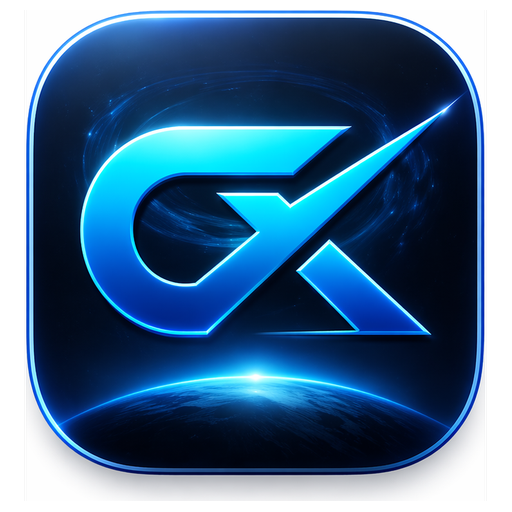
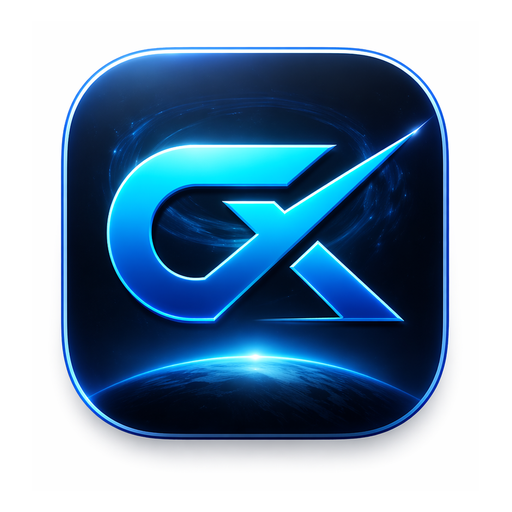
auto-commit for 7efecc50-e5d4-4c22-856b-f71e078ddbee

diff --git a/frontend/src/components/NotificationsBell.js b/frontend/src/components/NotificationsBell.js
@@ -1,4 +1,5 @@
 import React, { useCallback, useEffect, useRef, useState } from "react";
+import { createPortal } from "react-dom";
 import { Bell, CheckCheck, Inbox } from "lucide-react";
 import { Link, useNavigate } from "react-router-dom";
 import { useApi } from "@/hooks/useApi";
@@ -18,7 +19,9 @@ export default function NotificationsBell() {
   const [unread, setUnread] = useState(0);
   const [items, setItems] = useState([]);
   const navigate = useNavigate();
+  const btnRef = useRef(null);
   const panelRef = useRef(null);
+  const [anchor, setAnchor] = useState({ top: 64, left: null, right: 16, width: 360 });
 
   const refreshUnread = useCallback(async () => {
     const r = await get("/notifications/unread-count");
@@ -36,15 +39,62 @@ export default function NotificationsBell() {
     return () => clearInterval(t);
   }, [refreshUnread]);
 
+  // Recompute anchor whenever the panel opens or the viewport changes.
+  const computeAnchor = useCallback(() => {
+    if (!btnRef.current) return;
+    const vw = window.innerWidth;
+    const rect = btnRef.current.getBoundingClientRect();
+    const GUTTER = 8;
+    const isMobile = vw < 640;
+    if (isMobile) {
+      setAnchor({
+        top: Math.round(rect.bottom + 8),
+        left: GUTTER,
+        right: GUTTER,
+        width: null,
+      });
+      return;
+    }
+    const PANEL_W = 380;
+    // Prefer opening to the RIGHT of the bell (so it extends into the main
+    // content area, not off the screen to the left). If the bell is far right
+    // (mobile header-like), clamp to the viewport right edge.
+    let left = Math.round(rect.left);
+    if (left + PANEL_W + GUTTER > vw) {
+      left = Math.round(vw - PANEL_W - GUTTER);
+    }
+    if (left < GUTTER) left = GUTTER;
+    setAnchor({
+      top: Math.round(rect.bottom + 8),
+      left,
+      right: null,
+      width: PANEL_W,
+    });
+  }, []);
+
   useEffect(() => {
     if (!open) return;
+    computeAnchor();
     loadList();
+    const onResize = () => computeAnchor();
     const onDoc = (e) => {
-      if (panelRef.current && !panelRef.current.contains(e.target)) setOpen(false);
+      const t = e.target;
+      if (btnRef.current && btnRef.current.contains(t)) return;
+      if (panelRef.current && panelRef.current.contains(t)) return;
+      setOpen(false);
     };
+    const onKey = (e) => { if (e.key === "Escape") setOpen(false); };
+    window.addEventListener("resize", onResize);
+    window.addEventListener("scroll", onResize, true);
     document.addEventListener("mousedown", onDoc);
-    return () => document.removeEventListener("mousedown", onDoc);
-  }, [open, loadList]);
+    document.addEventListener("keydown", onKey);
+    return () => {
+      window.removeEventListener("resize", onResize);
+      window.removeEventListener("scroll", onResize, true);
+      document.removeEventListener("mousedown", onDoc);
+      document.removeEventListener("keydown", onKey);
+    };
+  }, [open, computeAnchor, loadList]);
 
   const handleClickItem = async (n) => {
     if (!n.read) {
@@ -65,79 +115,113 @@ export default function NotificationsBell() {
   const unreadItems = items.filter((n) => !n.read);
   const readItems = items.filter((n) => n.read);
 
+  // Panel rendered via portal to <body> so it escapes the narrow sidebar container
+  const panelStyle = {
+    top: anchor.top,
+    ...(anchor.left !== null ? { left: anchor.left } : {}),
+    ...(anchor.right !== null ? { right: anchor.right } : {}),
+    ...(anchor.width ? { width: anchor.width } : {}),
+    maxHeight: "min(70vh, 560px)",
+  };
+
   return (
-    <div className="relative" ref={panelRef}>
+    <>
       <button
+        ref={btnRef}
         type="button"
         onClick={() => setOpen((v) => !v)}
         className="relative inline-flex items-center justify-center h-9 w-9 rounded-full hover:bg-slate-100 text-slate-700 transition-colors"
         aria-label={`Notifications${unread > 0 ? ` (${unread} unread)` : ""}`}
+        aria-expanded={open}
+        aria-haspopup="menu"
         data-testid="notifications-bell"
       >
         <Bell className={`h-5 w-5 ${unread > 0 ? "text-blue-600" : ""}`} />
         {unread > 0 && (
-          <>
-            <span className="absolute -top-0.5 -right-0.5 min-w-[18px] h-[18px] px-1 rounded-full bg-blue-600 text-white text-[10px] font-bold flex items-center justify-center ring-2 ring-white"
-                  data-testid="notifications-unread-badge">
-              {unread > 99 ? "99+" : unread}
-            </span>
-            <span className="absolute -top-0.5 -right-0.5 min-w-[18px] h-[18px] rounded-full bg-blue-600/40 animate-ping" aria-hidden />
-          </>
+          <span
+            className="absolute -top-0.5 -right-0.5 min-w-[18px] h-[18px] px-1 rounded-full bg-blue-600 text-white text-[10px] font-bold flex items-center justify-center ring-2 ring-white"
+            data-testid="notifications-unread-badge"
+          >
+            {unread > 99 ? "99+" : unread}
+          </span>
         )}
       </button>
 
-      {open && (
-        <div
-          className="fixed sm:absolute inset-x-2 top-14 sm:inset-x-auto sm:top-auto sm:right-0 sm:mt-2 sm:w-[360px] max-w-[96vw] bg-white border border-slate-200 rounded-xl shadow-xl overflow-hidden z-50"
-          data-testid="notifications-dropdown"
-        >
-          <div className="flex items-center justify-between px-4 py-3 border-b border-slate-100 bg-slate-50/60">
-            <div>
-              <div className="text-sm font-semibold text-slate-900">Notifications</div>
-              <div className="text-[11px] text-slate-500">{unread > 0 ? `${unread} unread` : "You're all caught up"}</div>
-            </div>
-            <div className="flex items-center gap-3 text-xs">
-              {unread > 0 && (
-                <button onClick={markAllRead} className="inline-flex items-center gap-1 text-blue-600 hover:underline" data-testid="mark-all-read-btn">
-                  <CheckCheck className="h-3.5 w-3.5" /> Mark all read
-                </button>
-              )}
-              <Link to="/notifications" onClick={() => setOpen(false)} className="text-slate-500 hover:underline">
-                View all
-              </Link>
-            </div>
-          </div>
-          <div className="max-h-[70vh] overflow-y-auto">
-            {items.length === 0 ? (
-              <div className="px-4 py-10 text-center">
-                <Inbox className="h-8 w-8 text-slate-300 mx-auto mb-2" />
-                <p className="text-sm text-slate-600">No notifications yet</p>
-                <p className="text-xs text-slate-400 mt-1">We'll ping you here when things happen.</p>
+      {open && typeof document !== "undefined" && createPortal(
+        <>
+          {/* Mobile-only dimmed backdrop for tap-to-dismiss; invisible on desktop */}
+          <div
+            className="fixed inset-0 bg-black/20 sm:bg-transparent z-[90]"
+            onClick={() => setOpen(false)}
+            aria-hidden
+          />
+          <div
+            ref={panelRef}
+            role="menu"
+            style={panelStyle}
+            className="fixed z-[100] bg-white border border-slate-200 rounded-xl shadow-2xl overflow-hidden flex flex-col"
+            data-testid="notifications-dropdown"
+          >
+            <div className="flex items-center justify-between px-4 py-3 border-b border-slate-100 bg-slate-50/60 flex-shrink-0">
+              <div className="min-w-0">
+                <div className="text-sm font-semibold text-slate-900">Notifications</div>
+                <div className="text-[11px] text-slate-500">
+                  {unread > 0 ? `${unread} unread` : "You're all caught up"}
+                </div>
               </div>
-            ) : (
-              <>
-                {unreadItems.length > 0 && (
-                  <div className="px-4 py-1.5 text-[10px] uppercase tracking-wider text-slate-400 bg-slate-50">
-                    New
-                  </div>
+              <div className="flex items-center gap-3 text-xs flex-shrink-0 ml-3">
+                {unread > 0 && (
+                  <button
+                    onClick={markAllRead}
+                    className="inline-flex items-center gap-1 text-blue-600 hover:underline"
+                    data-testid="mark-all-read-btn"
+                  >
+                    <CheckCheck className="h-3.5 w-3.5" /> Mark all read
+                  </button>
                 )}
-                {unreadItems.map((n) => (
-                  <NotifRow key={n.id} n={n} onClick={() => handleClickItem(n)} />
-                ))}
-                {readItems.length > 0 && (
-                  <div className="px-4 py-1.5 text-[10px] uppercase tracking-wider text-slate-400 bg-slate-50">
-                    Earlier
-                  </div>
-                )}
-                {readItems.map((n) => (
-                  <NotifRow key={n.id} n={n} onClick={() => handleClickItem(n)} />
-                ))}
-              </>
-            )}
+                <Link
+                  to="/notifications"
+                  onClick={() => setOpen(false)}
+                  className="text-slate-600 hover:text-blue-600 hover:underline font-medium"
+                  data-testid="notifications-view-all"
+                >
+                  View all
+                </Link>
+              </div>
+            </div>
+            <div className="overflow-y-auto flex-1">
+              {items.length === 0 ? (
+                <div className="px-4 py-10 text-center">
+                  <Inbox className="h-8 w-8 text-slate-300 mx-auto mb-2" />
+                  <p className="text-sm text-slate-600">No notifications yet</p>
+                  <p className="text-xs text-slate-400 mt-1">We'll ping you here when things happen.</p>
+                </div>
+              ) : (
+                <>
+                  {unreadItems.length > 0 && (
+                    <div className="px-4 py-1.5 text-[10px] uppercase tracking-wider text-slate-400 bg-slate-50 sticky top-0">
+                      New
+                    </div>
+                  )}
+                  {unreadItems.map((n) => (
+                    <NotifRow key={n.id} n={n} onClick={() => handleClickItem(n)} />
+                  ))}
+                  {readItems.length > 0 && (
+                    <div className="px-4 py-1.5 text-[10px] uppercase tracking-wider text-slate-400 bg-slate-50 sticky top-0">
+                      Earlier
+                    </div>
+                  )}
+                  {readItems.map((n) => (
+                    <NotifRow key={n.id} n={n} onClick={() => handleClickItem(n)} />
+                  ))}
+                </>
+              )}
+            </div>
           </div>
-        </div>
+        </>,
+        document.body
       )}
-    </div>
+    </>
   );
 }
 

diff --git a/frontend/public/index.html b/frontend/public/index.html
@@ -2,7 +2,9 @@
 <html lang="en">
   <head>
     <meta charset="utf-8" />
-    <link rel="icon" href="%PUBLIC_URL%/icon-192x192.png" />
+    <link rel="icon" type="image/x-icon" href="%PUBLIC_URL%/favicon.ico?v=2" />
+    <link rel="icon" type="image/png" sizes="192x192" href="%PUBLIC_URL%/icon-192x192.png?v=2" />
+    <link rel="icon" type="image/png" sizes="512x512" href="%PUBLIC_URL%/icon-512x512.png?v=2" />
     <meta name="viewport" content="width=device-width, initial-scale=1, viewport-fit=cover" />
     <meta name="theme-color" content="#ffffff" />
     <meta name="description" content="Churvox - Jobs, quotes, invoices and team management for trade contractors" />
@@ -10,8 +12,8 @@
     <meta name="apple-mobile-web-app-status-bar-style" content="default" />
     <meta name="apple-mobile-web-app-title" content="Churvox" />
     <meta name="mobile-web-app-capable" content="yes" />
-    <link rel="apple-touch-icon" href="%PUBLIC_URL%/icon-192x192.png" />
-    <link rel="manifest" href="%PUBLIC_URL%/manifest.json" />
+    <link rel="apple-touch-icon" sizes="180x180" href="%PUBLIC_URL%/apple-touch-icon.png?v=2" />
+    <link rel="manifest" href="%PUBLIC_URL%/manifest.json?v=2" />
     <title>Churvox</title>
     <style>
       /* Branded pre-React launch surface: white base + very subtle pale-blue dot grid
